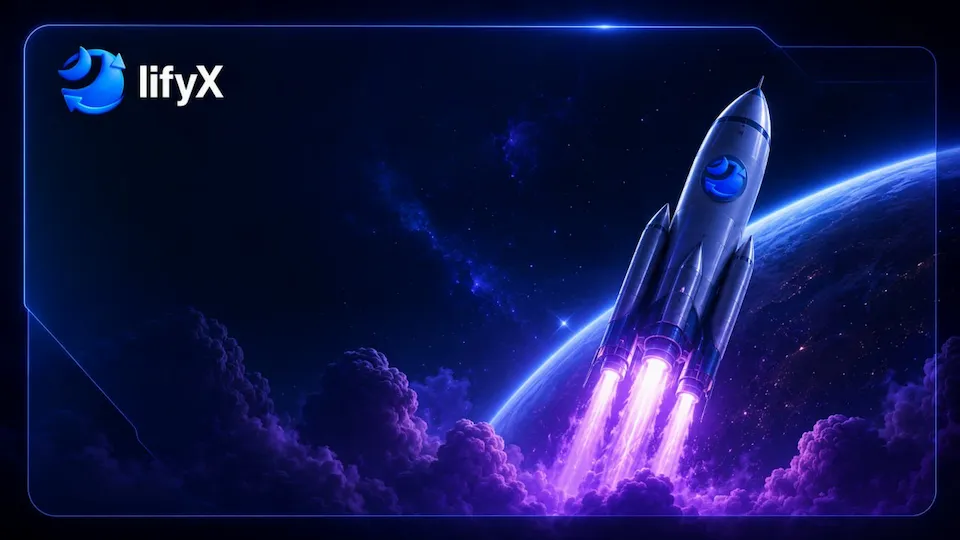
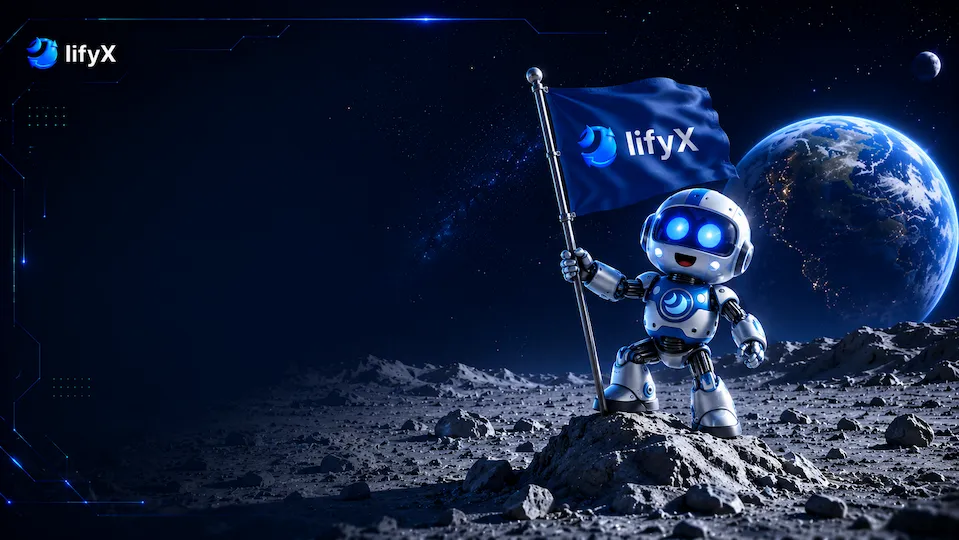
Update DEX configuration and branding

diff --git a/public/config.js b/public/config.js
@@ -35,7 +35,7 @@ window.__RUNTIME_CONFIG__ = {
   "VITE_SEO_KEYWORDS": "dex, crypto, exchange, lifyx,",
   "VITE_AVAILABLE_LANGUAGES": "en,zh,vi,id,uk,pl,de,ja,ar,fa,es,fr,it,nl,tc,pt,ru,ko,he,tr",
   "VITE_USE_CUSTOM_PNL_POSTERS": "true",
-  "VITE_CUSTOM_PNL_POSTER_COUNT": "1",
+  "VITE_CUSTOM_PNL_POSTER_COUNT": "3",
   "VITE_TRADING_VIEW_COLOR_CONFIG": "",
   "VITE_ANALYTICS_SCRIPT": "",
   "VITE_SYMBOL_LIST": "",